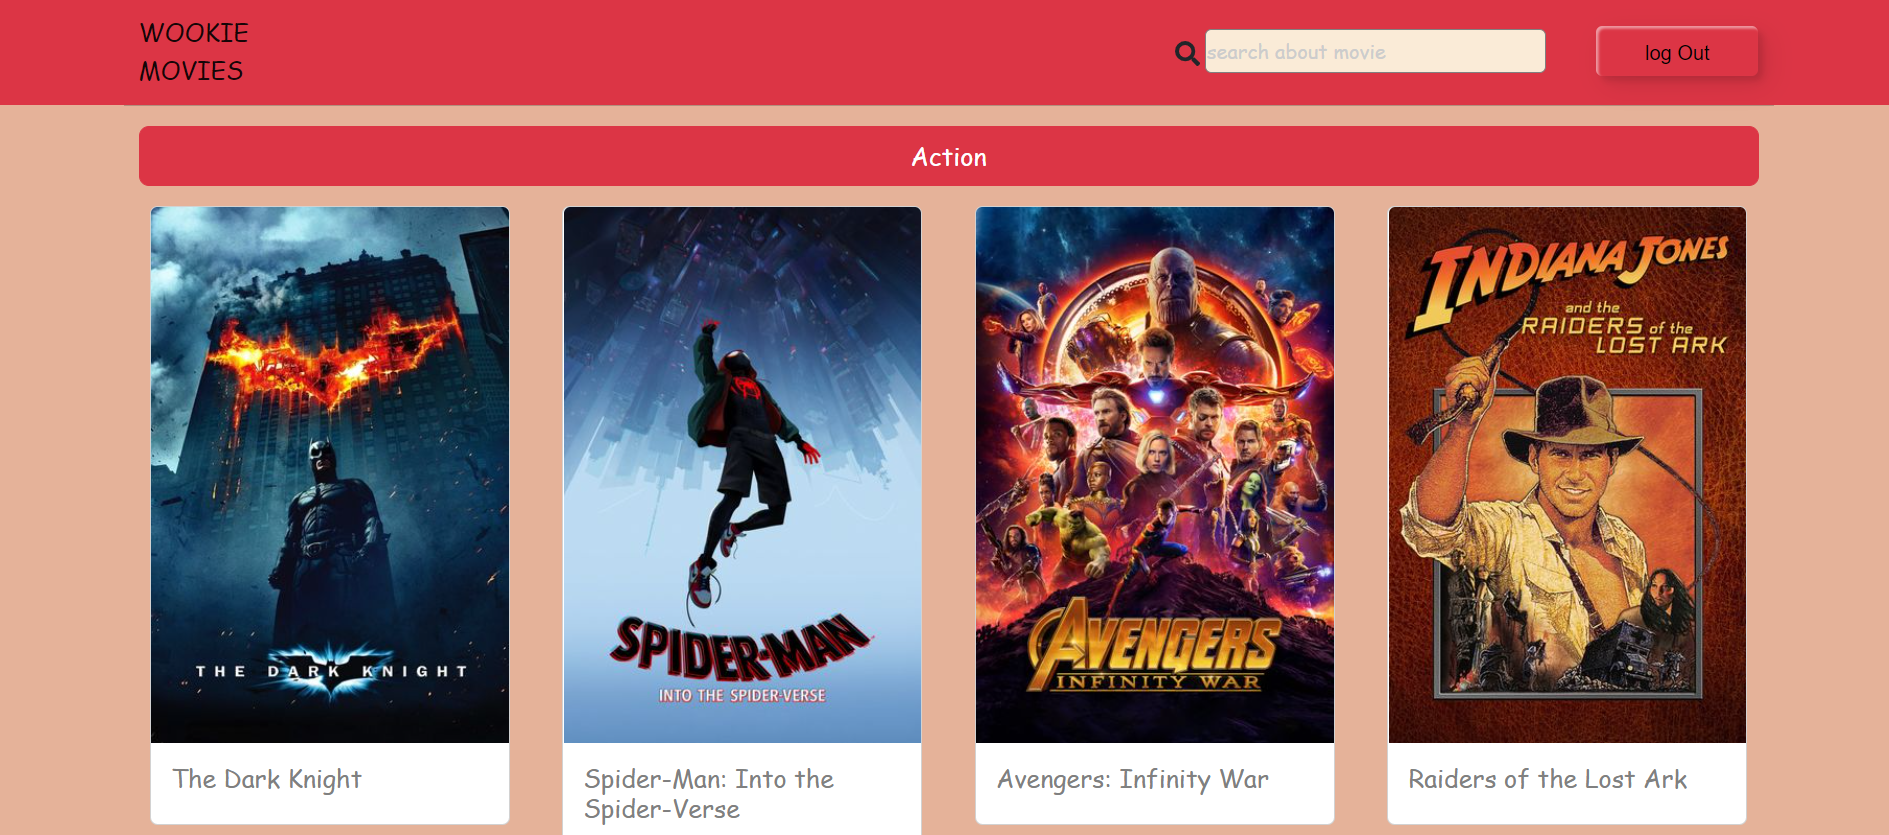
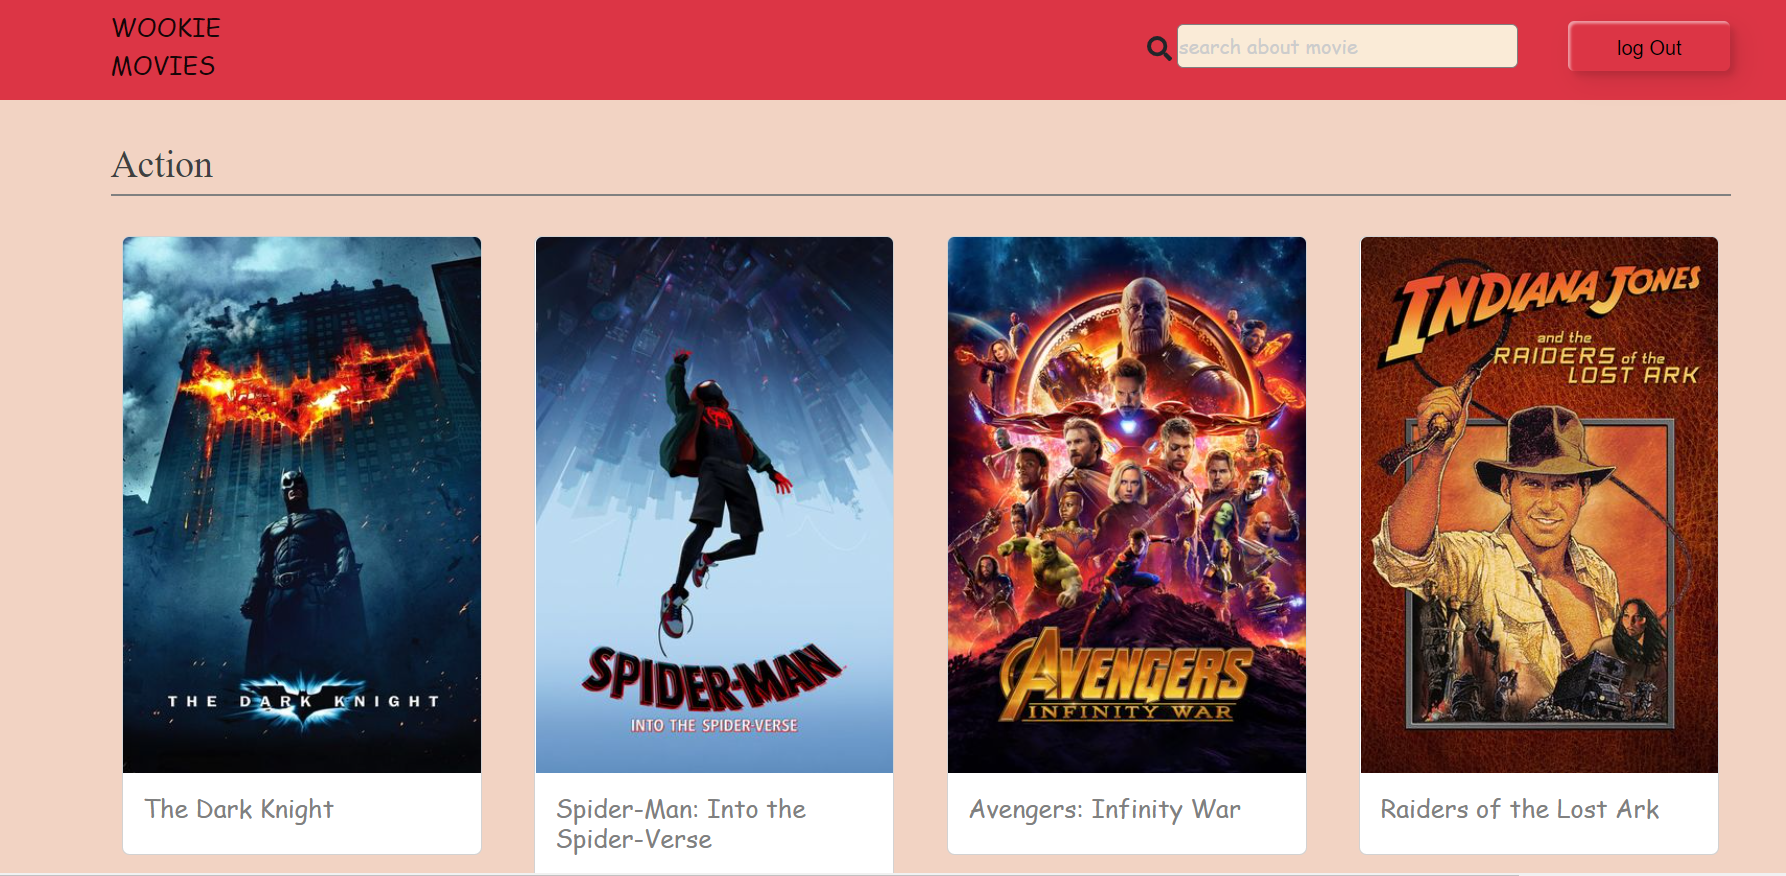
testing done

diff --git a/src/components/__tests__/homeCard.test.js b/src/components/__tests__/homeCard.test.js
@@ -1,0 +1,70 @@
+import {render,screen,cleanup} from "@testing-library/react";
+import HomeCard from "../HomeCard";
+
+afterEach(()=>{
+    cleanup();
+})
+
+test('should render HomeCard component and the title',()=>{
+    const obj={
+        backdrop: "https://wookie.codesubmit.io/static/backdrops/d6822b7b-48bb-4b78-ad5e-9ba04c517ec8.jpg",
+        cast: [
+            "Christian Bale",
+            "Heath Ledger",
+            "Aaron Eckhart"
+        ],
+        classification: "13+",
+        director: "Christopher Nolan",
+        genres: [
+            "Action",
+            "Crime",
+            "Drama"
+        ],
+        id: "d6822b7b-48bb-4b78-ad5e-9ba04c517ec8",
+        imdb_rating: 9.0,
+        length: "2h 32min",
+        overview: "Batman raises the stakes in his war on crime. With the help of Lt. Jim Gordon and District Attorney Harvey Dent, Batman sets out to dismantle the remaining criminal organizations that plague the streets. The partnership proves to be effective, but they soon find themselves prey to a reign of chaos unleashed by a rising criminal mastermind known to the terrified citizens of Gotham as the Joker.",
+        poster: "https://wookie.codesubmit.io/static/posters/d6822b7b-48bb-4b78-ad5e-9ba04c517ec8.jpg",
+        released_on: "2008-07-16T00:00:00",
+        slug: "the-dark-knight-2008",
+        title: "The Dark Knight"
+    }
+    render(<HomeCard elem={obj}/>);
+    const homeCardImg=screen.queryByTestId("cardImg");
+    expect(screen.getByText("The Dark Knight")).toBeInTheDocument();
+    expect((homeCardImg)).toBeInTheDocument();
+    expect((homeCardImg.src)).toContain("https://wookie.codesubmit.io/static/posters/d6822b7b-48bb-4b78-ad5e-9ba04c517ec8.jpg");
+
+})
+
+
+
+test('should render HomeCard component Image',()=>{
+    const obj={
+        backdrop: "https://wookie.codesubmit.io/static/backdrops/d6822b7b-48bb-4b78-ad5e-9ba04c517ec8.jpg",
+        cast: [
+            "Christian Bale",
+            "Heath Ledger",
+            "Aaron Eckhart"
+        ],
+        classification: "13+",
+        director: "Christopher Nolan",
+        genres: [
+            "Action",
+            "Crime",
+            "Drama"
+        ],
+        id: "d6822b7b-48bb-4b78-ad5e-9ba04c517ec8",
+        imdb_rating: 9.0,
+        length: "2h 32min",
+        overview: "Batman raises the stakes in his war on crime. With the help of Lt. Jim Gordon and District Attorney Harvey Dent, Batman sets out to dismantle the remaining criminal organizations that plague the streets. The partnership proves to be effective, but they soon find themselves prey to a reign of chaos unleashed by a rising criminal mastermind known to the terrified citizens of Gotham as the Joker.",
+        poster: "https://wookie.codesubmit.io/static/posters/d6822b7b-48bb-4b78-ad5e-9ba04c517ec8.jpg",
+        released_on: "2008-07-16T00:00:00",
+        slug: "the-dark-knight-2008",
+        title: "The Dark Knight"
+    }
+    render(<HomeCard elem={obj}/>);
+    const homeCardImg=screen.queryByTestId("cardImg");
+    expect((homeCardImg.src)).toContain("https://wookie.codesubmit.io/static/posters/d6822b7b-48bb-4b78-ad5e-9ba04c517ec8.jpg");
+
+})

diff --git a/src/components/Home/Home.js b/src/components/Home/Home.js
@@ -7,7 +7,7 @@ import { Row } from "react-bootstrap";
 import Header from '../Header/Header';
 import { Link } from "react-router-dom";
 import env from "react-dotenv";
-import Category from '../Category';
+import Category from '../category/Category';
 import BounceLoader from "react-spinners/BounceLoader";
 import {dataContext} from "../../contexts/dataContext";
 
@@ -75,8 +75,9 @@ function Home(props) {
                                     </Link>
                                 </Row>
 
-                            }) : (filteredArr.length == 0 && searchValue != "" ?
-                                <h1>does not exist</h1> :
+                            })
+                             : (filteredArr.length == 0 && searchValue != "" ?
+                                <h1>There is no such movie name ! please enter a valid movie name </h1> :
                                 <>
                                     <Category arr={arr} genres="Action" />
                                     <Category arr={arr} genres="Crime" />

diff --git a/src/components/category/Category.js b/src/components/category/Category.js
@@ -1,4 +1,5 @@
-import HomeCard from './HomeCard';
+import HomeCard from '../HomeCard';
+import "./category.css"
 import { Button, Row } from "react-bootstrap";
 import { Link } from "react-router-dom";
 
@@ -10,11 +11,8 @@ function Category(props) {
 
     return (
         <>
-            <hr></hr>
             <div className="d-grid gap-2">
-                <Button variant="secondary" className="btn-danger" size="lg">
-                {props.genres}
-                </Button>
+                <p id="geners">{props.genres}</p>
                 </div>
                 <br></br>
                 {

diff --git a/src/components/HomeCard.js b/src/components/HomeCard.js
@@ -9,7 +9,7 @@ function HomeCard(props) {
     return (
         <Col className = "d-flex align-items-center justify-content-center">
             <Card  style={{ width: '18rem' }}>
-                <Card.Img variant="top" src={props.elem.poster} />
+                <Card.Img data-testid="cardImg" variant="top" src={props.elem.poster} />
                 <Card.Body>
                     <Card.Title style={{color:"gray"}}>{props.elem.title}</Card.Title>
                 </Card.Body>

diff --git a/src/components/Home/Home.css b/src/components/Home/Home.css
@@ -18,7 +18,7 @@
         display: flex;
         flex-direction: column;
         font-family: 'Josefin Sans', cursive;
-        background-color: #E5B299;
+        background-color: #f2d3c3;
     }
     
     .atr{

diff --git a/src/components/category/category.css b/src/components/category/category.css
@@ -1,0 +1,8 @@
+
+#geners{
+    margin-top:30px;
+    
+    border-bottom:2px gray solid;font-size:30px;
+    color:rgb(64, 63, 63);
+    
+}

diff --git a/README.md b/README.md
@@ -18,11 +18,13 @@ This project was generated with [React](https://reactjs.org/docs/getting-started
 
 - Google authentication used so the user is able to login by google account and the token saved in the cookies . 
 - ContextApi ( created to share the data that come from api to avoid multiple api calls and to accelerate the response)
-- Pipes (Custom FilterPipe is created to filter images based on group like Action, Drama etc.,)
+- spinner (it done on the home page to show loading page until getting the data from API)
+- categories (category component is created to filter images based on group like Action, Drama etc.,)
 - Rating (Stars Component is used to display rating of the movie)
-- Search (Search Component is used to search the movie typed by the user in the search bar)
+- Search (Search is used to search the movie typed by the user in the search bar)
 - Rest API - GET call Integration
 - Bootstrap is used for home page styling. 
+- tests using jest library.
 
 
 ## To run the project
